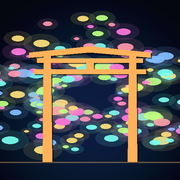
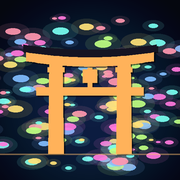
宵の海: 鳥居を明神鳥居の比率に作り直す
縦長で、笠木の反りも貫の位置も違っていた。実物（厳島型）は横に広くて低い。

- 全体を 幅:高さ = 1 : 0.80 にする（以前は 1 : 1.02 の縦長）
- 笠木と本体をパスごと分けた。笠木は加算する灯の層で塗らないので、
  灯っても黒いまま残る。上が黒く、下ほど白熱する見え方になる
- 貫を高さの 37% まで下げ、柱の外へ大きく出す（以前は 15% で高すぎた）
- 柱を太くし、台輪・額束・額を足す
- 部材の縁取りを薄くした。濃いと、台輪や額束が他の部材と重なっている所で
  「内側の矩形」が白い枠になって浮く

スプラッシュの SVG とアイコンも同じ形に揃えた。

あわせて、スプラッシュのタイトルで「の」が消えていたのを直す。
background-clip: text は要素自身の背景しか切り抜かないので、
color: transparent だけを継いだ子の span は何も描かれなかった。

Claude-Session: https://claude.ai/code/session_01FDEiJH275EB3HEkYApscu1

diff --git a/yachiyo/app.js b/yachiyo/app.js
@@ -171,48 +171,67 @@
   /* ============================================================
    * 鳥居（1回だけ焼いて、あとは drawImage）
    * ============================================================ */
-  function toriiPath(x, w, h, topY) {
-    // 正規化した明神鳥居もどき。w = 全幅, h = 全高, topY = 笠木の上端。
-    const p = new Path2D();
-    const X = (u) => x + u * w;
-    const Y = (v) => topY + v * h;
+  /* 明神鳥居。u = 幅方向 0..1、v = 高さ方向 0..1（0 = 笠木の上端、1 = 根元）。
+     笠木を別パスにしているのは、そこだけ黒いまま残して島木から下を灯らせるため
+     （厳島の鳥居の見え方。上が黒く、下ほど白熱する）。 */
+  const PILLAR_U = [0.245, 0.755];      // 柱の中心
+  const P_TOP = 0.098, P_BOT = 0.118;   // 柱の太さ（上／下。下がわずかに太い）
 
-    // 笠木（両端が反り上がる）
-    p.moveTo(X(-0.055), Y(0.052));
-    p.quadraticCurveTo(X(0.5), Y(-0.012), X(1.055), Y(0.052));
-    p.lineTo(X(1.055), Y(0.010));
-    p.quadraticCurveTo(X(0.5), Y(-0.056), X(-0.055), Y(0.010));
-    p.closePath();
+  function toriiPaths(x0, w, h, y0) {
+    const X = (u) => x0 + u * w;
+    const Y = (v) => y0 + v * h;
 
-    // 島木
-    p.rect(X(0.01), Y(0.055), w * 0.98, h * 0.032);
+    /* ---- 笠木。両端が反り上がる ---- */
+    const kasagi = new Path2D();
+    kasagi.moveTo(X(0.000), Y(-0.026));
+    kasagi.quadraticCurveTo(X(0.5), Y(0.074), X(1.000), Y(-0.026));
+    kasagi.lineTo(X(1.000), Y(0.042));
+    kasagi.quadraticCurveTo(X(0.5), Y(0.142), X(0.000), Y(0.042));
+    kasagi.closePath();
 
-    // 額束
-    p.rect(X(0.468), Y(0.087), w * 0.064, h * 0.075);
+    const body = new Path2D();
 
-    // 貫（左右に少し出る）
-    p.rect(X(-0.018), Y(0.148), w * 1.036, h * 0.036);
+    /* ---- 島木。笠木と同じ反りで、少し厚い ---- */
+    body.moveTo(X(0.021), Y(0.038));
+    body.quadraticCurveTo(X(0.5), Y(0.138), X(0.979), Y(0.038));
+    body.lineTo(X(0.979), Y(0.130));
+    body.quadraticCurveTo(X(0.5), Y(0.230), X(0.021), Y(0.130));
+    body.closePath();
 
-    // 柱（下にいくほどわずかに広がる）
-    const ptop = 0.062, pbot = 0.082;
-    for (const side of [0, 1]) {
-      const cU = side ? 0.895 : 0.105;
-      p.moveTo(X(cU - ptop / 2), Y(0.026));
-      p.lineTo(X(cU + ptop / 2), Y(0.026));
-      p.lineTo(X(cU + pbot / 2), Y(1.0));
-      p.lineTo(X(cU - pbot / 2), Y(1.0));
-      p.closePath();
+    /* ---- 台輪。柱の頭にはまる輪 ---- */
+    for (const cu of PILLAR_U) {
+      const dw = P_TOP * 1.28;
+      body.rect(X(cu - dw / 2), Y(0.188), w * dw, h * 0.046);
     }
-    return p;
+
+    /* ---- 額束と額 ---- */
+    body.rect(X(0.482), Y(0.190), w * 0.036, h * 0.215);
+    body.rect(X(0.446), Y(0.208), w * 0.108, h * 0.125);
+
+    /* ---- 貫。柱の外へ大きく出る ---- */
+    body.rect(X(0.098), Y(0.374), w * 0.804, h * 0.078);
+
+    /* ---- 柱 ---- */
+    for (const cu of PILLAR_U) {
+      body.moveTo(X(cu - P_TOP / 2), Y(0.100));
+      body.lineTo(X(cu + P_TOP / 2), Y(0.100));
+      body.lineTo(X(cu + P_BOT / 2), Y(1.0));
+      body.lineTo(X(cu - P_BOT / 2), Y(1.0));
+      body.closePath();
+    }
+
+    return { kasagi, body };
   }
 
   function bakeTorii() {
-    const tw = Math.min(W * 0.74, H * 0.42);
-    const th = tw * 1.02;
+    // 実物は縦より横に広い。以前は縦長にしていたので鳥居に見えていなかった。
+    const tw = Math.min(W * 0.88, H * 0.56);
+    const th = tw * 0.80;
     const topY = waterY - th;
-    const pad = Math.max(40, tw * 0.22);
+    const x0 = (W - tw) / 2;
+    const pad = Math.max(46, tw * 0.20);
 
-    const bx = (W - tw) / 2 - pad, by = topY - pad;
+    const bx = x0 - pad, by = topY - pad;
     const bw = tw + pad * 2, bh = th + pad * 2;
 
     const mk = () => {
@@ -224,44 +243,55 @@
       return { c, g };
     };
 
-    // 影絵（黒くて縁だけ薄く見える）
-    const sil = mk();
-    const pathA = toriiPath((W - tw) / 2, tw, th, topY);
-    const sgrd = sil.g.createLinearGradient(0, topY, 0, waterY);
-    sgrd.addColorStop(0, 'rgba(6,8,18,1)');
-    sgrd.addColorStop(1, 'rgba(14,10,14,1)');
-    sil.g.fillStyle = sgrd;
-    sil.g.fill(pathA);
-    sil.g.strokeStyle = 'rgba(120,150,200,0.20)';
-    sil.g.lineWidth = 1.1;
-    sil.g.stroke(pathA);
+    const { kasagi, body } = toriiPaths(x0, tw, th, topY);
 
-    // 灯（下から照らされて飴色に光る）
+    /* --- 影絵。灯っていないときはこれだけが見える --- */
+    const sil = mk();
+    const sgrd = sil.g.createLinearGradient(0, topY, 0, waterY);
+    sgrd.addColorStop(0, 'rgba(5,7,16,1)');
+    sgrd.addColorStop(1, 'rgba(11,8,13,1)');
+    sil.g.fillStyle = sgrd;
+    sil.g.fill(body);
+    sil.g.fillStyle = 'rgba(4,6,14,1)';       // 笠木はいちばん黒い
+    sil.g.fill(kasagi);
+    // 縁取りは輪郭を拾うためだけ。濃くすると、台輪や額束が他の部材と
+    // 重なっている所で「内側の矩形」が白い枠になって浮いてしまう。
+    sil.g.strokeStyle = 'rgba(120,150,200,0.10)';
+    sil.g.lineWidth = 1;
+    sil.g.stroke(body);
+    sil.g.stroke(kasagi);
+
+    /* --- 灯。島木から下だけが下から照らされる --- */
     const lit = mk();
     const [r, g0, b] = S.scene.torii;
     const grd = lit.g.createLinearGradient(0, topY, 0, waterY);
-    grd.addColorStop(0.00, `rgba(${r},${Math.round(g0 * 0.7)},${Math.round(b * 0.7)},0.12)`);
-    grd.addColorStop(0.40, `rgba(${r},${g0},${b},0.46)`);
-    grd.addColorStop(0.82, `rgba(${r},${Math.min(255, g0 + 30)},${Math.min(255, b + 40)},0.86)`);
-    grd.addColorStop(1.00, `rgba(255,${Math.min(255, g0 + 60)},${Math.min(255, b + 90)},1)`);
+    grd.addColorStop(0.00, `rgba(${r},${Math.round(g0 * 0.62)},${Math.round(b * 0.62)},0.16)`);
+    grd.addColorStop(0.34, `rgba(${r},${g0},${b},0.52)`);
+    grd.addColorStop(0.76, `rgba(${r},${Math.min(255, g0 + 34)},${Math.min(255, b + 48)},0.88)`);
+    grd.addColorStop(1.00, `rgba(255,${Math.min(255, g0 + 66)},${Math.min(255, b + 104)},1)`);
 
-    // まわりへにじむ光（これがないと板を貼ったように見える）
+    // まわりへにじむ光。これがないと板を貼ったように見える
     lit.g.shadowColor = `rgba(${r},${g0},${b},0.95)`;
-    lit.g.shadowBlur = Math.max(22, tw * 0.14);
+    lit.g.shadowBlur = Math.max(24, tw * 0.13);
     lit.g.fillStyle = `rgba(${r},${g0},${b},0.5)`;
-    lit.g.fill(pathA);
-    lit.g.shadowBlur = Math.max(10, tw * 0.05);
-    lit.g.fill(pathA);
+    lit.g.fill(body);
+    lit.g.shadowBlur = Math.max(10, tw * 0.045);
+    lit.g.fill(body);
     lit.g.shadowBlur = 0;
 
-    // 本体
     lit.g.fillStyle = grd;
-    lit.g.fill(pathA);
+    lit.g.fill(body);
 
-    // 縁のハイライト
-    lit.g.strokeStyle = `rgba(255,${Math.min(255, g0 + 80)},${Math.min(255, b + 120)},0.55)`;
-    lit.g.lineWidth = Math.max(1, tw * 0.004);
-    lit.g.stroke(pathA);
+    // 同上。ここも薄く。部材の継ぎ目として見える程度に留める。
+    lit.g.strokeStyle = `rgba(255,${Math.min(255, g0 + 84)},${Math.min(255, b + 126)},0.16)`;
+    lit.g.lineWidth = Math.max(1, tw * 0.003);
+    lit.g.stroke(body);
+
+    // 笠木は塗らない（加算なので塗らなければ影絵の黒がそのまま残る）。
+    // 縁だけ拾わせて、下からの照り返しを受けているように見せる。
+    lit.g.strokeStyle = `rgba(${r},${Math.round(g0 * 0.8)},${Math.round(b * 0.8)},0.34)`;
+    lit.g.lineWidth = Math.max(1, tw * 0.0035);
+    lit.g.stroke(kasagi);
 
     toriiBox = { sil: sil.c, lit: lit.c, x: bx, y: by, w: bw, h: bh, tw, th, topY };
   }

diff --git a/yachiyo/index.html b/yachiyo/index.html
@@ -75,7 +75,7 @@
 <div id="splash" class="splash">
   <div class="splash-inner">
     <div class="splash-torii" aria-hidden="true">
-      <svg viewBox="0 0 120 100"><path d="M4 20h112M10 30h100M58 30h4v10h-4zM22 20v72M30 20v72M90 20v72M98 20v72M10 38h100" stroke="currentColor" stroke-width="4.5" stroke-linecap="round" fill="none"/></svg>
+      <svg viewBox="0 0 120 96"><path d="M2 16 Q60 28 118 16 L118 24 Q60 36 2 24 Z" fill="currentColor" opacity=".55"/><path d="M5 23 Q60 35 115 23 L115 34 Q60 46 5 34 Z" fill="currentColor"/><rect x="55.5" y="32" width="9" height="26" fill="currentColor"/><rect x="21.5" y="35" width="12" height="6" fill="currentColor"/><rect x="86.5" y="35" width="12" height="6" fill="currentColor"/><rect x="12" y="52" width="96" height="9" fill="currentColor"/><path d="M23 30 h9 l1.4 66 h-11.8 Z" fill="currentColor"/><path d="M88 30 h9 l1.4 66 h-11.8 Z" fill="currentColor"/></svg>
     </div>
     <h1 class="splash-title">宵<span>の</span>海</h1>
     <p class="splash-sub">押さえて溜める。<br>離すと、ひらく。</p>

diff --git a/yachiyo/style.css b/yachiyo/style.css
@@ -338,7 +338,13 @@ html, body {
   color: transparent;
   filter: drop-shadow(0 0 26px rgba(140, 210, 255, .45));
 }
-.splash-title span { font-size: 24px; opacity: .95; }
+.splash-title span {
+  font-size: 24px;
+  /* 親の background-clip: text は親自身の背景しか切り抜かないので、
+     color: transparent だけを継いだ子は何も描かれない。自前で色を持たせる。 */
+  color: #9fc8e6;
+  -webkit-text-fill-color: #9fc8e6;
+}
 
 .splash-sub {
   margin: 0;
